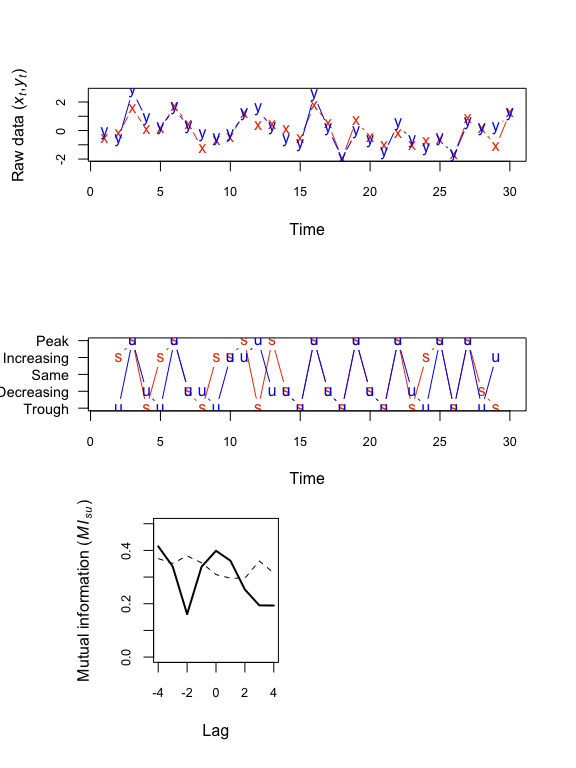
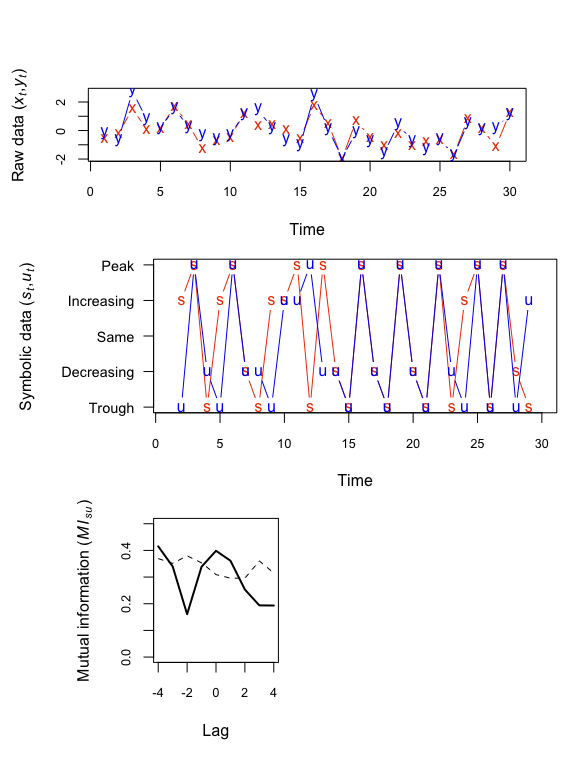
updated plots

Changed region(s): [[0.0, 0.3125, 0.9688, 0.6562]]

diff --git a/README.md b/README.md
@@ -72,8 +72,6 @@ y <- x + rnorm(TT,0,0.5)
 muti(x,y)
 ```
 
-    ## Warning in par(new = TRUE): calling par(new=TRUE) with no plot
-
 ![](README_files/figure-markdown_github/ex_2-1.png)
 
     ##       lag     MI_xy     MI_ci
@@ -94,8 +92,6 @@ Same as above with regular binning instead of symbolic (*i.e.*, `sym=FALSE`).
 ``` r
 muti(x,y,sym=FALSE)
 ```
-
-    ## Warning in par(new = TRUE): calling par(new=TRUE) with no plot
 
 ![](README_files/figure-markdown_github/ex_3-1.png)
 
